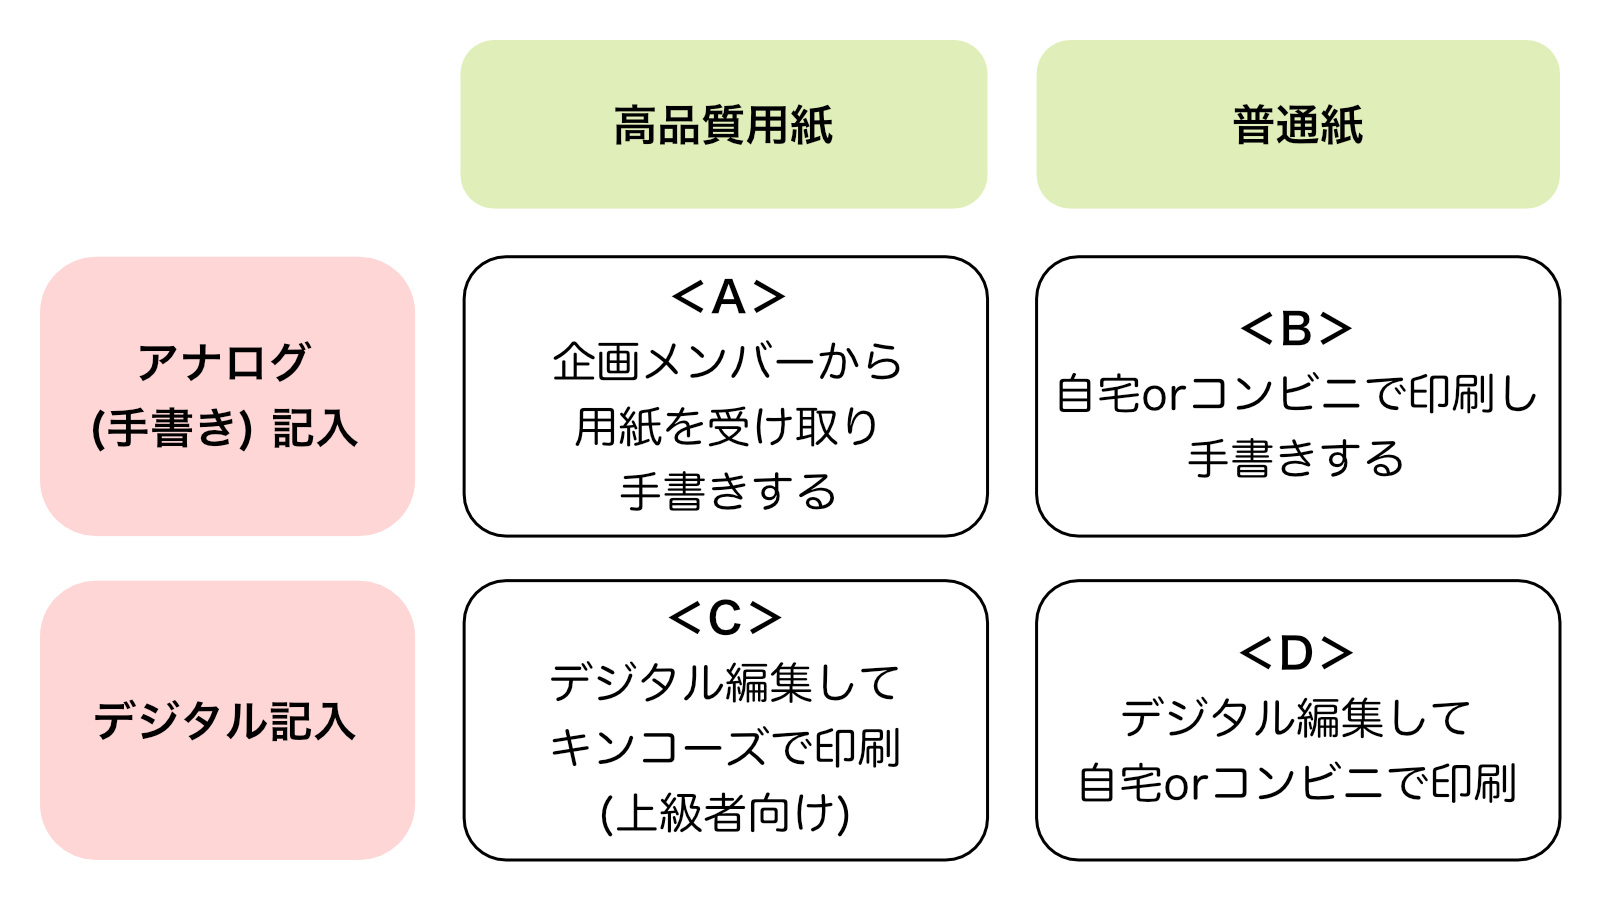
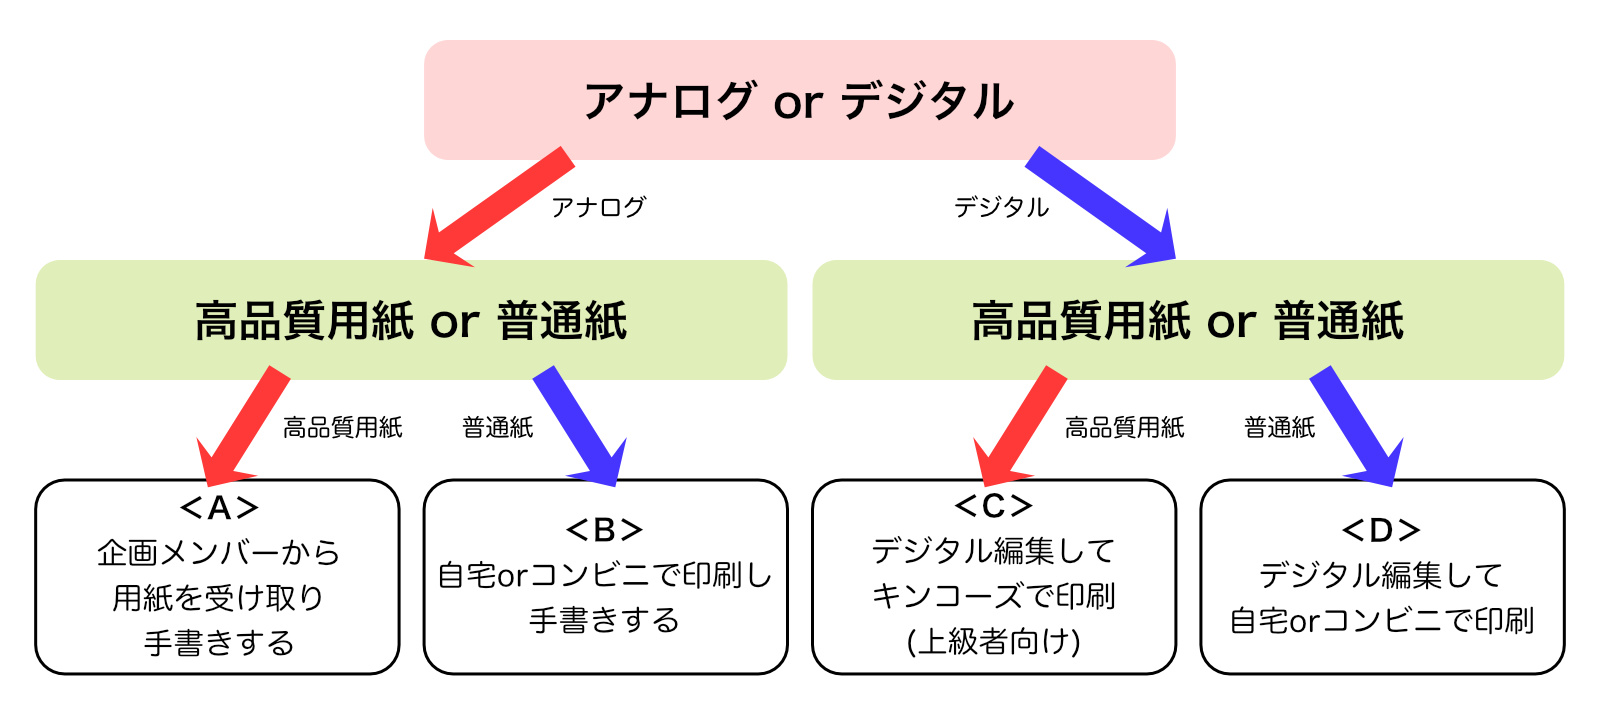
replace manual flow image

diff --git a/manual.html b/manual.html
@@ -50,7 +50,7 @@
     <li><a href="#option_d">D.デジタル編集して自宅orコンビニで印刷</a></li>
 </ul>
 
-<p><a href="manual-flow.jpg" data-lightbox="zukan"><img src="manual-flow.jpg" style="max-height: 450px" /></a></p>
+<p><a href="manual-flow.jpg" data-lightbox="zukan"><img src="manual-flow.jpg" style="max-height: 357px" /></a></p>
 
 </section>
 
@@ -112,16 +112,18 @@
 <section>
     <h2 id="tips">Tips</h2>
 
-    <p>(1) 自宅にプリンターがない場合、ネットプリントを利用してコンビニでのプリントが可能です。</p>
+    <p>(1) 高品質用紙は、パンフレット表紙等にも使われる厚紙で、企画メンバーから事前に配布したアナログ原稿と同等のものです。</p>
+
+    <p>(2) 自宅にプリンターがない場合、ネットプリントを利用してコンビニでのプリントが可能です。</p>
 
     <ul>
         <li><a target="_blank" href="https://www.printing.ne.jp/">netprint (セブンイレブン向け)</a></li>
         <li><a target="_blank" href="https://networkprint.ne.jp/">ネットワークプリント (ファミリーマート・ローソン・セイコーマート向け)</a></li>
     </ul>
 
-    <p>(2) 印刷用データをA4サイズで印刷すると、2人分の用紙が出力されますので、カッター等でカットしてご利用ください。</p>
+    <p>(3) 印刷用データをA4サイズで印刷すると、2人分の用紙が出力されますので、カッター等でカットしてご利用ください。</p>
     
-    <p>(3) 楠田さん宛には既に予備のバインダーやクリアポケットをお贈りしておりますため、プレゼントボックスへの投函時にクリアポケット等の同梱は必要ありません。</p>
+    <p>(4) 楠田さん宛には既に予備のバインダーやクリアポケットをお贈りしておりますため、プレゼントボックスへの投函時にクリアポケット等の同梱は必要ありません。</p>
 
     <p>その他、印刷や編集について不明な点がありましたら、企画メンバーまでお問い合わせくださいませ。</p>
 

diff --git a/index.html b/index.html
@@ -84,7 +84,7 @@
     <li><a href="manual.html#option_d">D. デジタル編集して自宅orコンビニで印刷</a></li>
 </ul>
 
-<p><a href="manual-flow.jpg" data-lightbox="zukan"><img src="manual-flow.jpg" style="max-height: 450px" /></a></p>
+<p><a href="manual-flow.jpg" data-lightbox="zukan"><img src="manual-flow.jpg" style="max-height: 357px" /></a></p>
 
 <p>詳しくは <a href="manual.html">今後のずかん提出方法</a> をご覧ください。</p>
 
